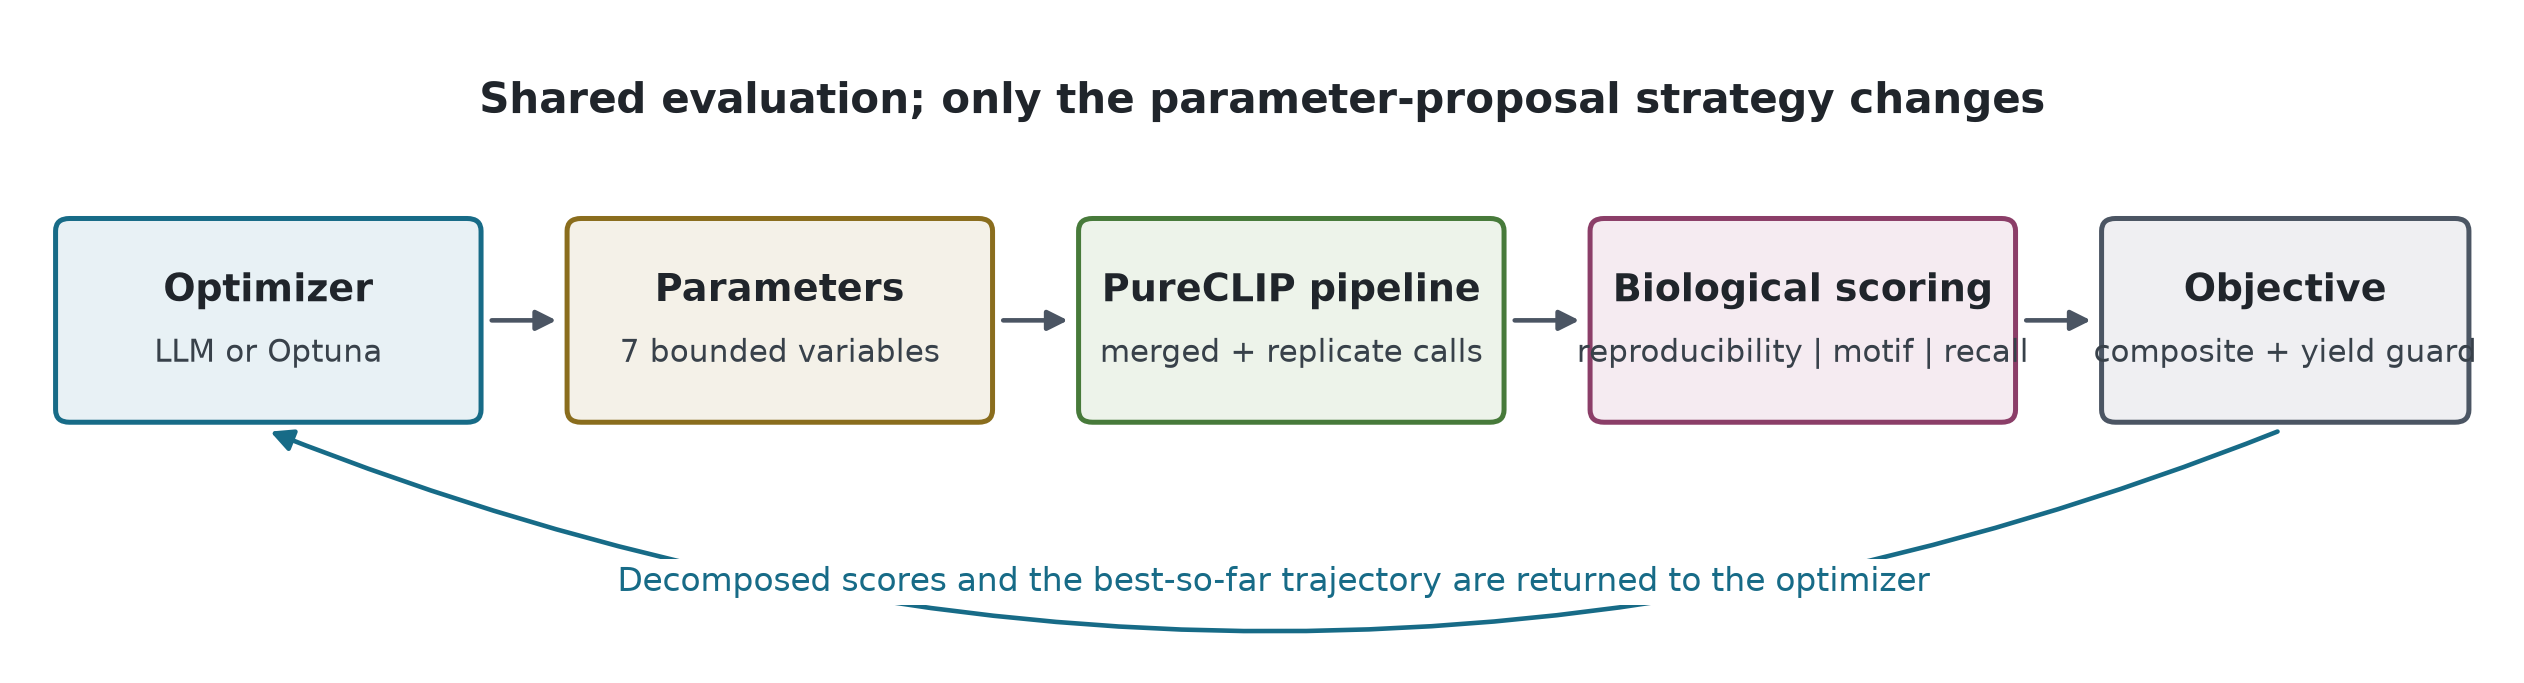
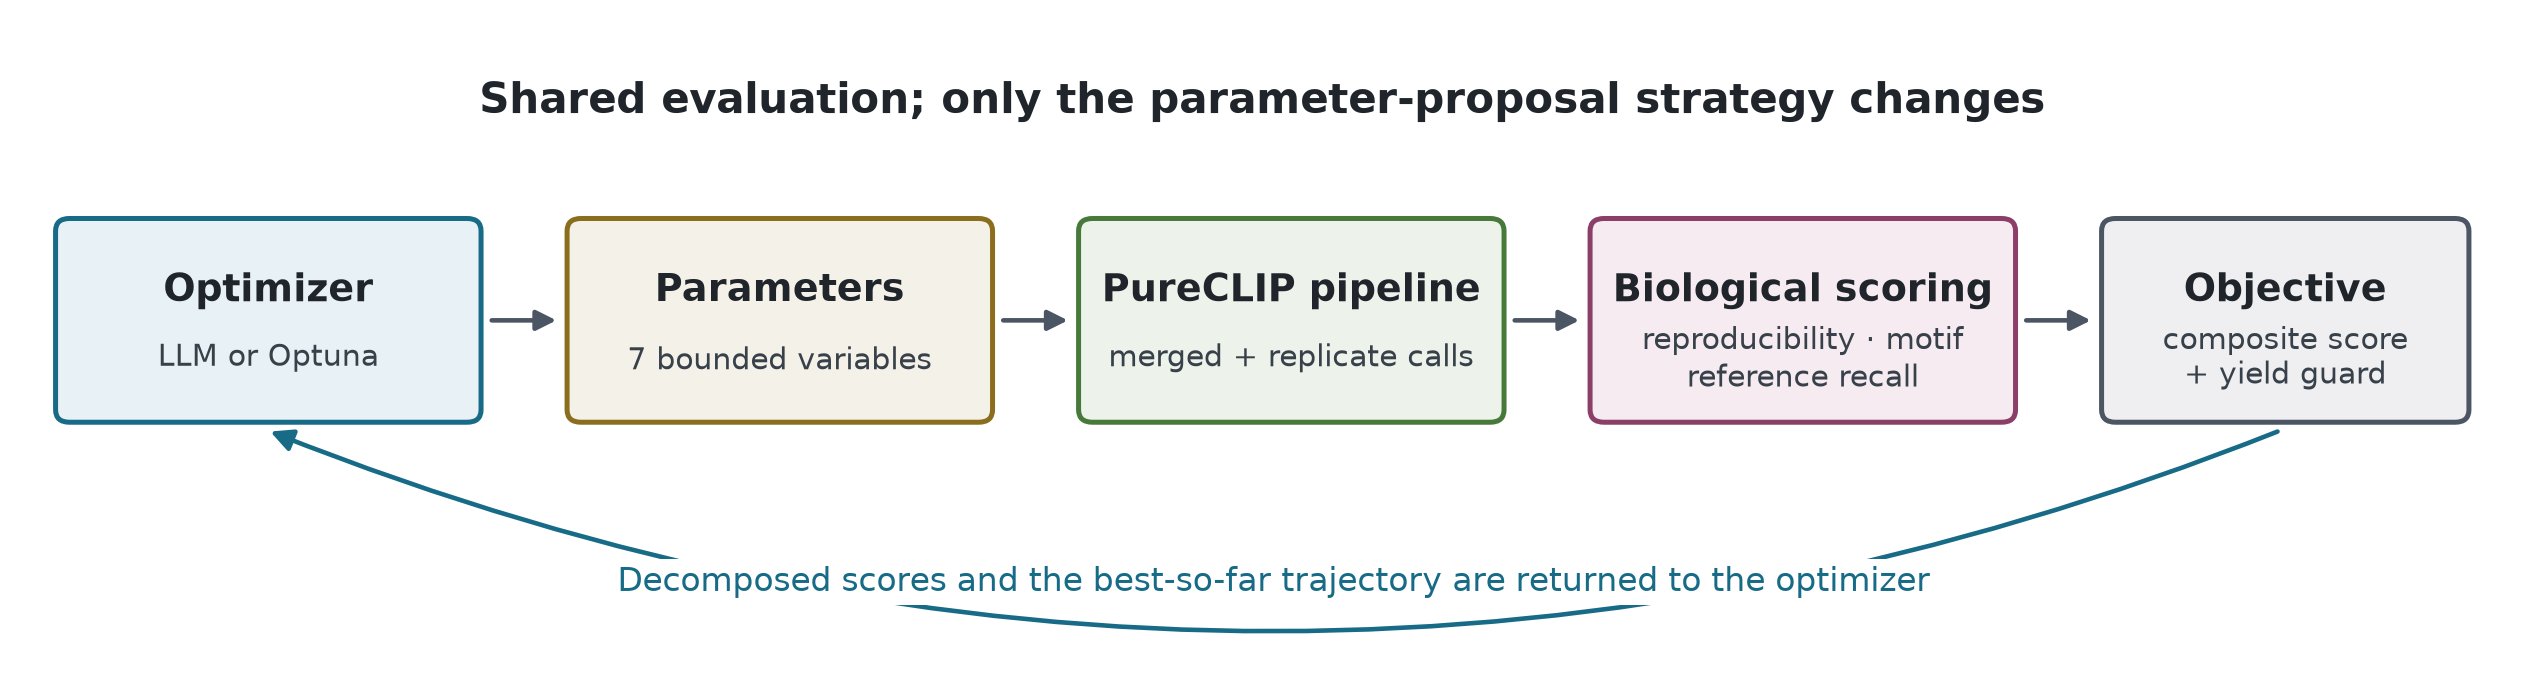
Report/shorten scoring methods (#23)
* report: simplify scoring methodology

* report: prevent pipeline figure text overflow

diff --git a/docs/report/sections/3_method.tex b/docs/report/sections/3_method.tex
@@ -89,60 +89,26 @@ only call sets with fewer than ten sites. \\
 \end{tabularx}
 \end{center}
 
-The following definitions specify the implementation. Let $C$ denote the final call set and
-$P_1,P_2$ the regions called independently in the two IP replicates. Raw
-agreement is the fraction of final sites supported by both replicates,
-\begin{equation}
-A_\mathrm{obs}=\frac{|\{c\in C:c\cap P_1\neq\varnothing
-\ \land\ c\cap P_2\neq\varnothing\}|}{|C|}.
-\end{equation}
-The same fraction is calculated for three chromosome-preserving random
-relocations of $C$, and their mean is $A_\mathrm{exp}$. Reproducibility is then
-\begin{equation}
-R_\mathrm{rep}=\max\!\left(0,\min\!\left(1,
-\frac{A_\mathrm{obs}-A_\mathrm{exp}}{1-A_\mathrm{exp}}\right)\right).
-\end{equation}
-This uses the chance-correction form introduced for Cohen's kappa
-\parencite{cohen1960}, but estimates expected overlap by genomic shuffling rather
-than from rater marginals; the score is set to zero if $A_\mathrm{exp}=1$.
-Interval intersections and shuffling are implemented
-with BEDTools~\parencite{quinlan2010}.
+The component calculations were chosen to remain biologically interpretable.
+Reproducibility is the fraction of final sites supported by both IP replicates,
+adjusted for the overlap observed after chromosome-preserving genomic shuffling.
+The adjustment follows the observed-versus-expected logic of Cohen's chance
+correction~\parencite{cohen1960}; interval operations and shuffling use
+BEDTools~\parencite{quinlan2010}.
 
-For a PWM $m$ of length $L$, a sequence starting at offset $k$ receives the
-standard log-odds score~\parencite{stormo1982}
-\begin{equation}
-q_m(k)=\sum_{i=1}^{L}\log_2\!\frac{\tilde p_{m,i}(x_{k+i-1})}{0.25},
-\qquad
-\tilde p_{m,i}(b)=\frac{p_{m,i}(b)+0.01}{1+4(0.01)}.
-\end{equation}
-For the minimum and maximum attainable PWM scores $q_m^-$ and $q_m^+$, the hit
-threshold and site-level hit fraction are
-\begin{equation}
-\tau_m=q_m^-+0.8(q_m^+-q_m^-),\qquad
-H_m=\frac{1}{|C|}\sum_{c\in C}
-\mathbf{1}\!\left[\max_{k\in W_c}q_m(k)\geq\tau_m\right],
-\end{equation}
-where $W_c$ is the $\pm15$-nt window around site $c$. At scoring time, the motif
-loader enumerates all five installed resources named in Section~\ref{theory}
-and evaluates every PWM available for the target RBP and cell line. Resource
-coverage is protein-dependent: HNRNPK has candidate motifs in all five resources,
-whereas PUM2 and U2AF2 have candidates in mCrossBase, ATtRACT, and RBPmap. The
-pipeline selects
-$m^*=\arg\max_m H_m/H_m^\mathrm{shuffle}$, and sets
-$R_\mathrm{motif}=H_{m^*}$. The enrichment ratio is reported but is not used in
-Equation~\ref{eq:composite}.
+Motif support is calculated in $\pm15$-nt site windows using standard PWM
+log-odds scoring~\parencite{stormo1982}. All target-RBP PWMs available from the
+five resources described in Section~\ref{theory} are considered. The pipeline
+uses the hit rate of the PWM with the strongest enrichment over shuffled
+sequences; the enrichment ratio is reported separately and is not itself part of
+Equation~\ref{eq:composite}. Reference recall is the fraction of strong ENCODE
+regions on chromosome~21 recovered by at least one final call
+\parencite{vannostrand2020}.
 
-Finally, for the chromosome-21 ENCODE reference set $G$,
-\begin{equation}
-R_\mathrm{ref}=\frac{|\{g\in G:\exists c\in C,\ g\cap c\neq\varnothing\}|}{|G|}.
-\end{equation}
-Thus, each reference interval is counted at most once, irrespective of how many
-calls overlap it. All three components are bounded by zero and one. The final
-factor in Equation~\ref{eq:composite} penalizes call sets with fewer than ten
-sites. Both the weights and this yield penalty are project-specific design
-choices. When a component is unavailable, the implementation renormalizes the
-weights over the remaining components; all records used here contained all
-three.
+All three components are bounded between zero and one. The weights and the
+few-site penalty in Equation~\ref{eq:composite} are project-specific design
+choices. If a component is unavailable, the implementation renormalizes the
+remaining weights; all records analyzed here contained all three components.
 
 \subsection{Experimental conditions}
 

diff --git a/scripts/analysis/report_figures.py b/scripts/analysis/report_figures.py
@@ -156,8 +156,8 @@ def fig_pipeline(outdir: Path):
         (0.15, 1.15, 1.75, 0.9, "Optimizer", "LLM or Optuna", "#E8F1F5", "#176B87"),
         (2.35, 1.15, 1.75, 0.9, "Parameters", "7 bounded variables", "#F4F1E8", "#8A6D1D"),
         (4.55, 1.15, 1.75, 0.9, "PureCLIP pipeline", "merged + replicate calls", "#EDF3EA", "#477A3A"),
-        (6.75, 1.15, 1.75, 0.9, "Biological scoring", "reproducibility | motif | recall", "#F5EBF1", "#8B3E68"),
-        (8.95, 1.15, 1.5, 0.9, "Objective", "composite + yield guard", "#EFEFF2", "#4B5563"),
+        (6.75, 1.15, 1.75, 0.9, "Biological scoring", "reproducibility · motif\nreference recall", "#F5EBF1", "#8B3E68"),
+        (8.95, 1.15, 1.5, 0.9, "Objective", "composite score\n+ yield guard", "#EFEFF2", "#4B5563"),
     ]
     for x, y, w, h, heading, detail, fill, edge in boxes:
         ax.add_patch(FancyBboxPatch(
@@ -166,8 +166,9 @@ def fig_pipeline(outdir: Path):
         ))
         ax.text(x + w / 2, y + 0.59, heading, ha="center", va="center",
                 fontsize=9, weight="bold", color="#20252B")
-        ax.text(x + w / 2, y + 0.29, detail, ha="center", va="center",
-                fontsize=7.5, color="#38414A")
+        ax.text(x + w / 2, y + 0.27, detail, ha="center", va="center",
+                multialignment="center", linespacing=1.15, fontsize=7.2,
+                color="#38414A")
 
     for left, right in zip(boxes, boxes[1:]):
         start = (left[0] + left[2] + 0.05, 1.60)
